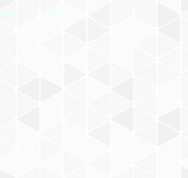
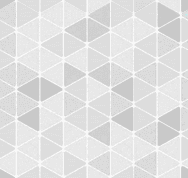
Make placeholder image and nearest link more visible #34

diff --git a/site/wwwroot/css/site.min.css b/site/wwwroot/css/site.min.css
@@ -1,1 +1,1 @@
-@keyframes rotateSpinnerBig{from{-moz-transform:translateX(-50%) rotate(0deg);-ms-transform:translateX(-50%) rotate(0deg);-o-transform:translateX(-50%) rotate(0deg);-webkit-transform:translateX(-50%) rotate(0deg);transform:translateX(-50%) rotate(0deg);}to{-moz-transform:translateX(-50%) rotate(360deg);-ms-transform:translateX(-50%) rotate(360deg);-o-transform:translateX(-50%) rotate(360deg);-webkit-transform:translateX(-50%) rotate(360deg);transform:translateX(-50%) rotate(360deg);}}@keyframes rotateSpinnerSmall{from{-moz-transform:rotate(0deg);-ms-transform:rotate(0deg);-o-transform:rotate(0deg);-webkit-transform:rotate(0deg);transform:rotate(0deg);}to{-moz-transform:rotate(360deg);-ms-transform:rotate(360deg);-o-transform:rotate(360deg);-webkit-transform:rotate(360deg);transform:rotate(360deg);}}html,body,.canvas{margin:0;padding:0;width:100%;height:100%;font-family:'Roboto',sans-serif;font-size:14px;color:#212121;background:#f5f5f5;}*{-moz-box-sizing:border-box;-webkit-box-sizing:border-box;box-sizing:border-box;}::selection{background:#f44336;color:#fff;}::-moz-selection{background:#f44336;color:#fff;}.clear{clear:both;}.canvas>.container{position:relative;min-height:100%;padding:16px 0 216px;}.logo{padding-left:24px;margin-bottom:24px;font-size:20px;font-weight:500;text-transform:uppercase;color:#fff;}.logo>.words{display:inline-block;width:100%;padding:2px 8px;background:#f44336;}.spinner{position:fixed;top:0;left:0;width:100%;height:100%;z-index:100;}.spinner:after{display:block;position:absolute;top:0;left:0;content:' ';width:100%;height:100%;background:rgba(255,255,255,.8);z-index:90;}.spinner>i{position:absolute;top:40%;left:50%;z-index:100;-moz-transform:translateX(-50%);-ms-transform:translateX(-50%);-o-transform:translateX(-50%);-webkit-transform:translateX(-50%);transform:translateX(-50%);-moz-animation:rotateSpinnerBig 1.5s 0s infinite ease;-o-animation:rotateSpinnerBig 1.5s 0s infinite ease;-webkit-animation:rotateSpinnerBig 1.5s 0s infinite ease;animation:rotateSpinnerBig 1.5s 0s infinite ease;font-size:50px;color:#f44336;}.to-top{position:fixed;bottom:16px;right:16px;width:56px;height:56px;line-height:50px;border-radius:56px;font-size:24px;text-align:center;color:#fff;background:#f44336;box-shadow:0 1px 3px rgba(0,0,0,.12),0 1px 2px rgba(0,0,0,.24);-moz-transition:transform .5s ease 0s;-o-transition:transform .5s ease 0s;-webkit-transition:transform .5s ease 0s;transition:transform .5s ease 0s;-moz-transform:scale(1) rotate(0deg);-ms-transform:scale(1) rotate(0deg);-o-transform:scale(1) rotate(0deg);-webkit-transform:scale(1) rotate(0deg);transform:scale(1) rotate(0deg);cursor:pointer;}.to-top:hover{background:#d2190b;}.to-top.hidden{-moz-transform:scale(0) rotate(720deg);-ms-transform:scale(0) rotate(720deg);-o-transform:scale(0) rotate(720deg);-webkit-transform:scale(0) rotate(720deg);transform:scale(0) rotate(720deg);}@media(min-width:720px){.to-top.stick{position:absolute;bottom:185px;}}.footer{position:absolute;bottom:0;width:100%;padding:24px 16px 24px 24px;color:#fff;background:#424242;}.footer .title{font-size:20px;height:32px;margin-bottom:24px;}.footer .title .text{display:inline;border-bottom:2px solid #f44336;padding:4px;}.footer .links .link{margin-bottom:12px;}.footer .links .link.last{margin-bottom:0;}.footer .links .link a{font-size:16px;text-decoration:none;color:#757575;}.footer .links .link a:hover{color:#f44336;}.timeline-types{position:relative;padding:0 16px 0 24px;font-size:20px;height:24px;}@media(min-width:340px){.timeline-types{margin:0 auto;padding:0;max-width:280px;}}@media(min-width:720px){.timeline-types{max-width:none;margin:0 16px 0 24px;}}@media(min-width:1024px){.timeline-types{max-width:900px;margin:0 auto;}}.timeline-types>.item{position:absolute;color:#e3e3e3;display:inline-block;cursor:pointer;-moz-transition:left .3s ease 0s,color .3s ease 0s;-o-transition:left .3s ease 0s,color .3s ease 0s;-webkit-transition:left .3s ease 0s,color .3s ease 0s;transition:left .3s ease 0s,color .3s ease 0s;}.timeline-types>.item:hover{color:#fbb4af;}.timeline-types>.item.feed{left:150px;}@media(min-width:340px){.timeline-types>.item.feed{left:126px;}}.timeline-types>.item.upcoming{left:96px;}@media(min-width:340px){.timeline-types>.item.upcoming{left:72px;}}.timeline-types>.item.active{color:#f44336;}.timeline-types>.item.active.feed,.timeline-types>.item.active.upcoming{left:24px;}@media(min-width:340px){.timeline-types>.item.active.feed,.timeline-types>.item.active.upcoming{left:0;}}.timeline .item{position:relative;margin:24px 16px 0 24px;padding-bottom:48px;border-radius:2px;overflow:hidden;max-width:280px;box-shadow:0 1px 3px rgba(0,0,0,.12),0 1px 2px rgba(0,0,0,.24);background:#fff;}@media(min-width:340px){.timeline .item{margin:24px auto;}}@media(min-width:450px){.timeline .item{max-width:400px;}}@media(min-width:720px){.timeline .item{max-width:none;margin:24px 16px 24px 24px;padding-bottom:0;}}@media(min-width:1024px){.timeline .item{max-width:900px;margin:24px auto;}}.timeline .item>.img-container{display:block;position:relative;width:100%;height:auto;overflow:hidden;}@media(min-width:720px){.timeline .item>.img-container{max-width:280px;float:left;margin-right:16px;}}.timeline .item>.img-container>.img{width:100%;height:187px;background-size:cover;background-position:center center;}@media(min-width:450px){.timeline .item>.img-container>.img{height:220px;}}@media(min-width:720px){.timeline .item>.img-container>.img{height:187px;}}.timeline .item>.img-container>.placement{position:absolute;top:8px;right:0;color:#fff;background:#f44336;padding:4px 16px;border-radius:4px 0 0 4px;}@media(min-width:720px){.timeline .item>.img-container>.placement{right:auto;left:0;border-radius:0 4px 4px 0;}}.timeline .item>.img-container.no-thumb{min-height:25px;}@media(min-width:720px){.timeline .item>.img-container.no-thumb{min-height:187px;background:url('../imgs/nophoto.png');}}@media(max-width:719px){.timeline .item>.img-container.no-thumb>.placement{top:0;border-radius:0;text-align:right;width:100%;}}.timeline .item>.date{padding:16px 16px 8px;font-size:12px;color:#bdbdbd;}.timeline .item>.views{float:right;padding:16px 16px 8px;font-size:12px;color:#bdbdbd;}.timeline .item>.title{padding:0 16px 16px;font-size:18px;}.timeline .item>.actions{position:absolute;left:0;padding:0 16px 16px;height:48px;line-height:32px;width:100%;-moz-transition:all .5s ease 0s;-o-transition:all .5s ease 0s;-webkit-transition:all .5s ease 0s;transition:all .5s ease 0s;}@media(min-width:720px){.timeline .item>.actions{left:auto;right:0;bottom:0;width:220px;text-align:right;}}.timeline .item>.actions.out{left:-100%;}@media(min-width:720px){.timeline .item>.actions.out{left:auto;bottom:-100%;}}.timeline .item>.actions>.action{text-transform:uppercase;color:#f44336;display:inline-block;margin-right:16px;font-weight:500;cursor:pointer;text-decoration:none;}@media(min-width:720px){.timeline .item>.actions>.action{margin-right:0;margin-left:16px;}}.timeline .item>.socials{position:absolute;left:100%;width:100%;padding:0 16px 16px;-moz-transition:all .5s ease 0s;-o-transition:all .5s ease 0s;-webkit-transition:all .5s ease 0s;transition:all .5s ease 0s;}@media(min-width:720px){.timeline .item>.socials{left:auto;right:-100%;bottom:0;padding-left:296px;}}.timeline .item>.socials.in{left:0;}@media(min-width:720px){.timeline .item>.socials.in{left:auto;right:0;}}.timeline .item>.socials>a{display:inline-block;height:32px;width:32px;line-height:32px;border-radius:32px;cursor:pointer;margin-right:16px;text-decoration:none;text-align:center;background:#f44336;color:#fff;font-size:18px;}.timeline .item>.socials>a.close{float:right;margin-right:0;width:auto;background:none;color:#f44336;font-size:14px;font-weight:500;text-transform:uppercase;border-radius:0;}.timeline .more{margin:24px 16px 24px 24px;}@media(min-width:340px){.timeline .more{margin:24px auto;}}.timeline .more>.more-button{position:relative;max-width:280px;width:100%;height:40px;line-height:40px;background:#f44336;border-radius:2px;color:#fff;text-transform:uppercase;cursor:pointer;box-shadow:0 1px 3px rgba(0,0,0,.12),0 1px 2px rgba(0,0,0,.24);text-align:center;}@media(min-width:340px){.timeline .more>.more-button{margin:0 auto;}}.timeline .more>.more-button:hover,.timeline .more>.more-button:focus{background:#ea1c0d;}.timeline .more>.more-button.loading{background:#fbb4af;}.timeline .more>.more-button>i{position:absolute;top:8px;left:16px;font-size:24px;-moz-animation:rotateSpinnerSmall 1.5s 0s infinite ease;-o-animation:rotateSpinnerSmall 1.5s 0s infinite ease;-webkit-animation:rotateSpinnerSmall 1.5s 0s infinite ease;animation:rotateSpinnerSmall 1.5s 0s infinite ease;}.timeline .no-more{font-size:24px;text-align:center;color:#bdbdbd;}
+@keyframes rotateSpinnerBig{from{-moz-transform:translateX(-50%) rotate(0deg);-ms-transform:translateX(-50%) rotate(0deg);-o-transform:translateX(-50%) rotate(0deg);-webkit-transform:translateX(-50%) rotate(0deg);transform:translateX(-50%) rotate(0deg);}to{-moz-transform:translateX(-50%) rotate(360deg);-ms-transform:translateX(-50%) rotate(360deg);-o-transform:translateX(-50%) rotate(360deg);-webkit-transform:translateX(-50%) rotate(360deg);transform:translateX(-50%) rotate(360deg);}}@keyframes rotateSpinnerSmall{from{-moz-transform:rotate(0deg);-ms-transform:rotate(0deg);-o-transform:rotate(0deg);-webkit-transform:rotate(0deg);transform:rotate(0deg);}to{-moz-transform:rotate(360deg);-ms-transform:rotate(360deg);-o-transform:rotate(360deg);-webkit-transform:rotate(360deg);transform:rotate(360deg);}}html,body,.canvas{margin:0;padding:0;width:100%;height:100%;font-family:'Roboto',sans-serif;font-size:14px;color:#212121;background:#f5f5f5;}*{-moz-box-sizing:border-box;-webkit-box-sizing:border-box;box-sizing:border-box;}::selection{background:#f44336;color:#fff;}::-moz-selection{background:#f44336;color:#fff;}.clear{clear:both;}.canvas>.container{position:relative;min-height:100%;padding:16px 0 216px;}.logo{padding-left:24px;margin-bottom:24px;font-size:20px;font-weight:500;text-transform:uppercase;color:#fff;}.logo>.words{display:inline-block;width:100%;padding:2px 8px;background:#f44336;}.spinner{position:fixed;top:0;left:0;width:100%;height:100%;z-index:100;}.spinner:after{display:block;position:absolute;top:0;left:0;content:' ';width:100%;height:100%;background:rgba(255,255,255,.8);z-index:90;}.spinner>i{position:absolute;top:40%;left:50%;z-index:100;-moz-transform:translateX(-50%);-ms-transform:translateX(-50%);-o-transform:translateX(-50%);-webkit-transform:translateX(-50%);transform:translateX(-50%);-moz-animation:rotateSpinnerBig 1.5s 0s infinite ease;-o-animation:rotateSpinnerBig 1.5s 0s infinite ease;-webkit-animation:rotateSpinnerBig 1.5s 0s infinite ease;animation:rotateSpinnerBig 1.5s 0s infinite ease;font-size:50px;color:#f44336;}.to-top{position:fixed;bottom:16px;right:16px;width:56px;height:56px;line-height:50px;border-radius:56px;font-size:24px;text-align:center;color:#fff;background:#f44336;box-shadow:0 1px 3px rgba(0,0,0,.12),0 1px 2px rgba(0,0,0,.24);-moz-transition:transform .5s ease 0s;-o-transition:transform .5s ease 0s;-webkit-transition:transform .5s ease 0s;transition:transform .5s ease 0s;-moz-transform:scale(1) rotate(0deg);-ms-transform:scale(1) rotate(0deg);-o-transform:scale(1) rotate(0deg);-webkit-transform:scale(1) rotate(0deg);transform:scale(1) rotate(0deg);cursor:pointer;}.to-top:hover{background:#d2190b;}.to-top.hidden{-moz-transform:scale(0) rotate(720deg);-ms-transform:scale(0) rotate(720deg);-o-transform:scale(0) rotate(720deg);-webkit-transform:scale(0) rotate(720deg);transform:scale(0) rotate(720deg);}@media(min-width:720px){.to-top.stick{position:absolute;bottom:185px;}}.footer{position:absolute;bottom:0;width:100%;padding:24px 16px 24px 24px;color:#fff;background:#424242;}.footer .title{font-size:20px;height:32px;margin-bottom:24px;}.footer .title .text{display:inline;border-bottom:2px solid #f44336;padding:4px;}.footer .links .link{margin-bottom:12px;}.footer .links .link.last{margin-bottom:0;}.footer .links .link a{font-size:16px;text-decoration:none;color:#757575;}.footer .links .link a:hover{color:#f44336;}.timeline-types{position:relative;padding:0 16px 0 24px;font-size:20px;height:24px;}@media(min-width:340px){.timeline-types{margin:0 auto;padding:0;max-width:280px;}}@media(min-width:720px){.timeline-types{max-width:none;margin:0 16px 0 24px;}}@media(min-width:1024px){.timeline-types{max-width:900px;margin:0 auto;}}.timeline-types>.item{position:absolute;color:#bdbdbd;display:inline-block;cursor:pointer;-moz-transition:left .3s ease 0s,color .3s ease 0s;-o-transition:left .3s ease 0s,color .3s ease 0s;-webkit-transition:left .3s ease 0s,color .3s ease 0s;transition:left .3s ease 0s,color .3s ease 0s;}.timeline-types>.item:hover{color:#fbb4af;}.timeline-types>.item.feed{left:150px;}@media(min-width:340px){.timeline-types>.item.feed{left:126px;}}.timeline-types>.item.upcoming{left:96px;}@media(min-width:340px){.timeline-types>.item.upcoming{left:72px;}}.timeline-types>.item.active{color:#f44336;}.timeline-types>.item.active.feed,.timeline-types>.item.active.upcoming{left:24px;}@media(min-width:340px){.timeline-types>.item.active.feed,.timeline-types>.item.active.upcoming{left:0;}}.timeline .item{position:relative;margin:24px 16px 0 24px;padding-bottom:48px;border-radius:2px;overflow:hidden;max-width:280px;box-shadow:0 1px 3px rgba(0,0,0,.12),0 1px 2px rgba(0,0,0,.24);background:#fff;}@media(min-width:340px){.timeline .item{margin:24px auto;}}@media(min-width:450px){.timeline .item{max-width:400px;}}@media(min-width:720px){.timeline .item{max-width:none;margin:24px 16px 24px 24px;padding-bottom:0;}}@media(min-width:1024px){.timeline .item{max-width:900px;margin:24px auto;}}.timeline .item>.img-container{display:block;position:relative;width:100%;height:auto;overflow:hidden;}@media(min-width:720px){.timeline .item>.img-container{max-width:274px;float:left;margin-right:16px;}}.timeline .item>.img-container>.img{width:100%;height:187px;background-size:cover;background-position:center center;}@media(min-width:450px){.timeline .item>.img-container>.img{height:220px;}}@media(min-width:720px){.timeline .item>.img-container>.img{height:187px;}}.timeline .item>.img-container>.placement{position:absolute;top:8px;right:0;color:#fff;background:#f44336;padding:4px 16px;border-radius:4px 0 0 4px;}@media(min-width:720px){.timeline .item>.img-container>.placement{right:auto;left:0;border-radius:0 4px 4px 0;}}.timeline .item>.img-container.no-thumb{min-height:25px;}@media(min-width:720px){.timeline .item>.img-container.no-thumb{min-height:187px;background:url('../imgs/nophoto.png');}}@media(max-width:719px){.timeline .item>.img-container.no-thumb>.placement{top:0;border-radius:0;text-align:right;width:100%;}}.timeline .item>.date{padding:16px 16px 8px;font-size:12px;color:#bdbdbd;}.timeline .item>.views{float:right;padding:16px 16px 8px;font-size:12px;color:#bdbdbd;}.timeline .item>.title{padding:0 16px 16px;font-size:18px;}.timeline .item>.actions{position:absolute;left:0;padding:0 16px 16px;height:48px;line-height:32px;width:100%;-moz-transition:all .5s ease 0s;-o-transition:all .5s ease 0s;-webkit-transition:all .5s ease 0s;transition:all .5s ease 0s;}@media(min-width:720px){.timeline .item>.actions{left:auto;right:0;bottom:0;width:220px;text-align:right;}}.timeline .item>.actions.out{left:-100%;}@media(min-width:720px){.timeline .item>.actions.out{left:auto;bottom:-100%;}}.timeline .item>.actions>.action{text-transform:uppercase;color:#f44336;display:inline-block;margin-right:16px;font-weight:500;cursor:pointer;text-decoration:none;}@media(min-width:720px){.timeline .item>.actions>.action{margin-right:0;margin-left:16px;}}.timeline .item>.socials{position:absolute;left:100%;width:100%;padding:0 16px 16px;-moz-transition:all .5s ease 0s;-o-transition:all .5s ease 0s;-webkit-transition:all .5s ease 0s;transition:all .5s ease 0s;}@media(min-width:720px){.timeline .item>.socials{left:auto;right:-100%;bottom:0;padding-left:290px;}}.timeline .item>.socials.in{left:0;}@media(min-width:720px){.timeline .item>.socials.in{left:auto;right:0;}}.timeline .item>.socials>a{display:inline-block;height:32px;width:32px;line-height:32px;border-radius:32px;cursor:pointer;margin-right:16px;text-decoration:none;text-align:center;background:#f44336;color:#fff;font-size:18px;}.timeline .item>.socials>a.close{float:right;margin-right:0;width:auto;background:none;color:#f44336;font-size:14px;font-weight:500;text-transform:uppercase;border-radius:0;}.timeline .more{margin:24px 16px 24px 24px;}@media(min-width:340px){.timeline .more{margin:24px auto;}}.timeline .more>.more-button{position:relative;max-width:280px;width:100%;height:40px;line-height:40px;background:#f44336;border-radius:2px;color:#fff;text-transform:uppercase;cursor:pointer;box-shadow:0 1px 3px rgba(0,0,0,.12),0 1px 2px rgba(0,0,0,.24);text-align:center;}@media(min-width:340px){.timeline .more>.more-button{margin:0 auto;}}.timeline .more>.more-button:hover,.timeline .more>.more-button:focus{background:#ea1c0d;}.timeline .more>.more-button.loading{background:#fbb4af;}.timeline .more>.more-button>i{position:absolute;top:8px;left:16px;font-size:24px;-moz-animation:rotateSpinnerSmall 1.5s 0s infinite ease;-o-animation:rotateSpinnerSmall 1.5s 0s infinite ease;-webkit-animation:rotateSpinnerSmall 1.5s 0s infinite ease;animation:rotateSpinnerSmall 1.5s 0s infinite ease;}.timeline .no-more{font-size:24px;text-align:center;color:#bdbdbd;}

diff --git a/site/wwwroot/css/site.less b/site/wwwroot/css/site.less
@@ -232,7 +232,7 @@ html, body, .canvas {
     > .item {
         position:absolute;
 
-        color: lighten(@text-secondary, 15%);
+        color: @text-secondary;
         display: inline-block;
         cursor: pointer;
 
@@ -311,7 +311,7 @@ html, body, .canvas {
             overflow: hidden;
 
             @media(min-width: 720px) {                
-                max-width: 280px;
+                max-width: 274px;
                 float: left;
                 margin-right: 16px;
             }
@@ -441,7 +441,7 @@ html, body, .canvas {
                 right: -100%; 
                 bottom: 0;
 
-                padding-left: 296px;                                   
+                padding-left: 290px;                                   
             }
 
             &.in {

diff --git a/site/wwwroot/css/site.css b/site/wwwroot/css/site.css
@@ -212,7 +212,7 @@ body,
 }
 .timeline-types > .item {
   position: absolute;
-  color: #e3e3e3;
+  color: #BDBDBD;
   display: inline-block;
   cursor: pointer;
   -moz-transition: left 0.3s ease 0s, color 0.3s ease 0s;
@@ -294,7 +294,7 @@ body,
 }
 @media (min-width: 720px) {
   .timeline .item > .img-container {
-    max-width: 280px;
+    max-width: 274px;
     float: left;
     margin-right: 16px;
   }
@@ -423,7 +423,7 @@ body,
     left: auto;
     right: -100%;
     bottom: 0;
-    padding-left: 296px;
+    padding-left: 290px;
   }
 }
 .timeline .item > .socials.in {
